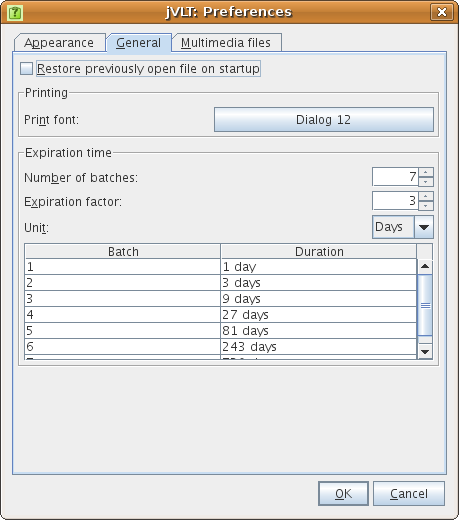
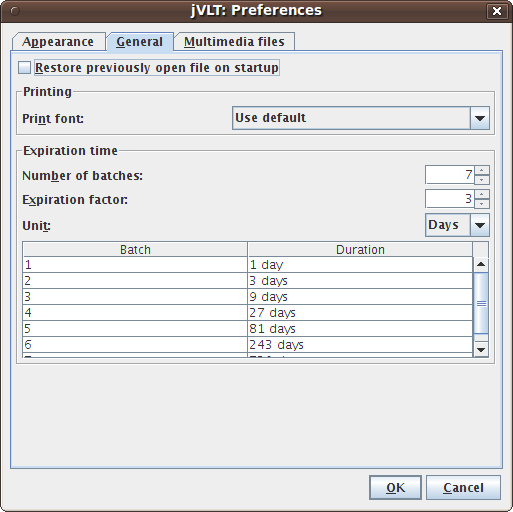
Updated documentation
git-svn-id: https://svn.code.sf.net/p/jvlt/code/trunk@450 2e8f9017-362f-4c5f-8fba-3cd18fd43268

Changed region(s): [[0.0, 0.0, 1.0, 1.0]]

diff --git a/jvlt-main/doc/default/doc-settings.html b/jvlt-main/doc/default/doc-settings.html
@@ -40,7 +40,10 @@ where you can change several settings of jVLT.
 <h2>
 <a name="appearance_settings">Appearance Settings</a>
 </h2>
-In the "Appearance" tab the following settings can be made:
+In the "Appearance" tab the look and feel, fonts, the locale, and the fields
+shown in the HTML area can be selected. When selecting a font, either the
+default one can be used or a custom one can be chosen by selecting
+"Choose font..." from the drop-down menu.
 <ul>
 
 <li>
@@ -59,11 +62,13 @@ look and feel is used.
 </li>
 
 <li>
-<b>Original input field font, Original table column</b>
+<b>User interface font for "Original":</b>
+This font is used for words and examples in the original language.
 </li>
 
 <li>
-<b>Pronunciation input field font, Pronunciation table column</b>
+<b>User interface font for "Pronunciation":</b>
+For the pronunciation a custom font can be defined, too.
 </li>
 
 <li>
@@ -73,14 +78,14 @@ Quiz tab.
 </li>
 
 <li>
-<b>Font of the "Original" field: </b>
+<b>HTML font for the "Original" field: </b>
 This setting determines the font of
 the "Original" field in the
 <a href="doc-vocabulary.html#detailed_view">detailed view</a>.
 </li>
 
 <li>
-<b>Font of the "Pronunciation" field: </b>
+<b>HTML font for the "Pronunciation" field: </b>
 You can also select the font for displaying the pronunciation
 in the detailed view.
 </li>
@@ -122,8 +127,10 @@ during your last session and loads it on the next startup.
 
 <li>
 <b>Print font:</b>
-By pressing on the font button, you can change the font used for
-<a href="doc-misc.html#printing">printing</a>.
+You can either use the default font for
+<a href="doc-misc.html#printing">printing</a>
+or select a custom one by selecting the "Select font..." item
+from the drop-down menu.
 </li>
 
 </ul>

diff --git a/jvlt-main/doc/default/doc-vocabulary.html b/jvlt-main/doc/default/doc-vocabulary.html
@@ -175,7 +175,9 @@ of a word.
 <p>
 <img alt="Advanced settings" src="add_word_details.png"></p>
 
-<h4>Word details</h4>
+<h4>
+<a name="advanced_settings_details">Word details</a>
+</h4>
 Whether you can see the Details tab of the dialog depends on
 whether you have set a language for the dictionary via the 
 "Edit-&gt;Properties" menu entry. In the Details tab, you can
@@ -189,6 +191,18 @@ choose existing categories from the drop-down list or enter a new
 category name. After that, press "Add".
 <p>
 <img alt="Multimedia" src="add_word_categories.png"></p>
+
+<h4>Custom Fields</h4>
+Custom (or user-defined) fields are similar to the fields in the
+<a href="#advanced_settings_details">Details tab</a>. Unlike the latter, they
+can have arbitrary names. In order to add a new custom field, you first have
+to double-click on an empty cell in the "Field name" column, then select an
+existing name from the drop-down list or enter a new one. After that, you
+double-click on the corresponding cell in the "Field value" column and enter
+a value. If there multiple custom fields, you can rearrange them by first
+selecting a table row and then press the arrow buttons.
+<p>
+<img alt="Custom fields" src="add_word_custom_fields.png"></p>
 
 <h4>Multimedia Files</h4>
 You can also specify audio and image files for a word, for example a WAV

diff --git a/jvlt-main/doc/default/doc-menus.html b/jvlt-main/doc/default/doc-menus.html
@@ -160,13 +160,13 @@
 	By selecting this menu entry, you can open a dialog showing error
 	messages produced by jVLT. Normally the dialog should be empty, but
 	if you notice some unexpected behavior (e.g., when pressing a button
-	nothing happens), you can look at the error log and send its content
+	has no effect), you can look at the error log and send its content
 	to the author.
 </p>
 
 
 <p>
-<b>Tools-&gt;Settings</b>
+<b>Tools-&gt;Preferences</b>
 <br>
 	This command lets you edit some <a href="doc-settings.html">settings</a>.
 </p>

diff --git a/jvlt-main/doc/default/doc-quizzes.html b/jvlt-main/doc/default/doc-quizzes.html
@@ -132,7 +132,7 @@ the "Manage quiz types..." button.
 <img alt="Manage quiz types" src="quiz_type_dialog.png">
 <br>
 <br>
-In the dialog, you select the field to quiz on, and the fields which are
+In the dialog, you select the fields to quiz on, and the fields which are
 shown during the quiz question. You also have to name the newly created
 quiz type by entering a name into the text field at the top of the dialog
 and pressing "New/Update" afterwards. You can also change existing
